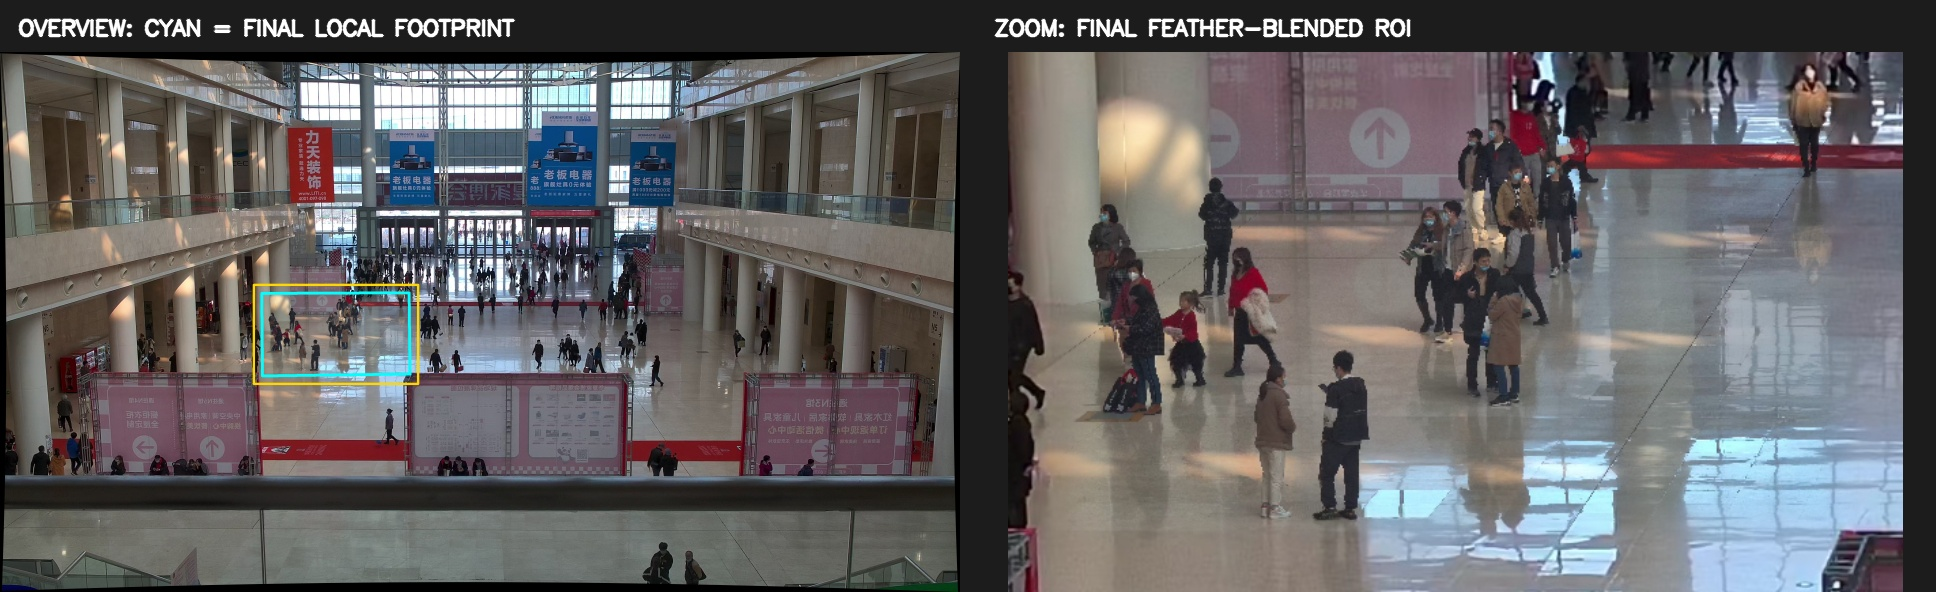
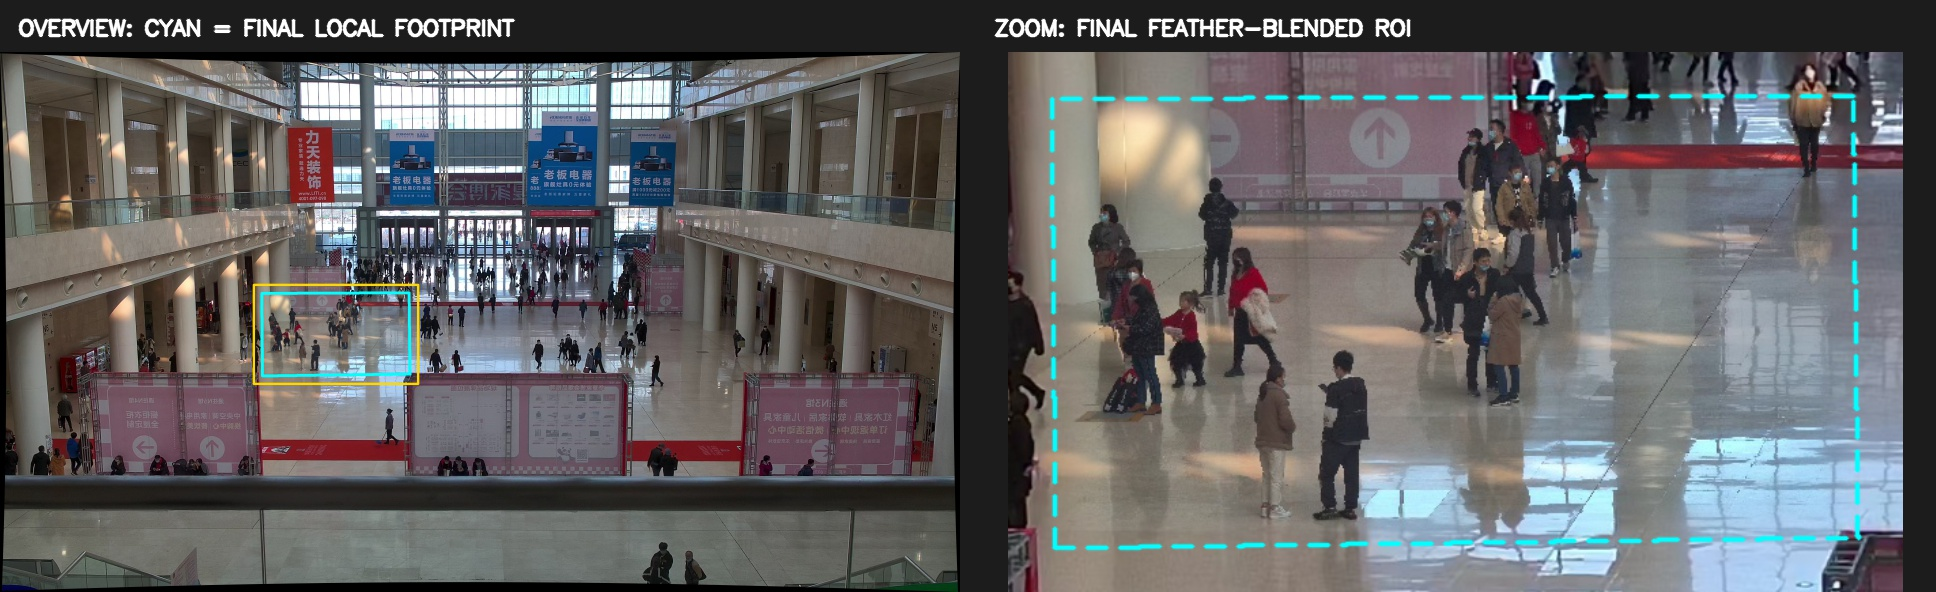
Use thin dashed outlines in zoom visualizations

diff --git a/src/image_stitch/visualization.py b/src/image_stitch/visualization.py
@@ -133,6 +133,43 @@ def _fit_panel(image: np.ndarray, width: int, height: int) -> np.ndarray:
     return panel
 
 
+def _draw_dashed_contours(
+    image: np.ndarray,
+    contours: list[np.ndarray] | tuple[np.ndarray, ...],
+    *,
+    color: tuple[int, int, int] = (255, 255, 0),
+    thickness: int = 2,
+    dash_length: float = 14.0,
+    gap_length: float = 10.0,
+) -> None:
+    """Draw closed anti-aliased contours as short dashed segments."""
+    period = dash_length + gap_length
+    for contour in contours:
+        points = np.asarray(contour, dtype=np.float32).reshape(-1, 2)
+        if len(points) < 2:
+            continue
+        for index, start in enumerate(points):
+            end = points[(index + 1) % len(points)]
+            vector = end - start
+            length = float(np.linalg.norm(vector))
+            if length <= 0:
+                continue
+            direction = vector / length
+            offset = 0.0
+            while offset < length:
+                dash_start = start + direction * offset
+                dash_end = start + direction * min(offset + dash_length, length)
+                cv.line(
+                    image,
+                    tuple(np.rint(dash_start).astype(int)),
+                    tuple(np.rint(dash_end).astype(int)),
+                    color,
+                    thickness,
+                    cv.LINE_AA,
+                )
+                offset += period
+
+
 def draw_initial_alignment(
     source: np.ndarray,
     destination: np.ndarray,
@@ -179,7 +216,7 @@ def draw_initial_alignment(
     zoom_contours, _ = cv.findContours(
         roi_mask, cv.RETR_EXTERNAL, cv.CHAIN_APPROX_SIMPLE
     )
-    cv.drawContours(zoom, zoom_contours, -1, (255, 255, 0), 4, cv.LINE_AA)
+    _draw_dashed_contours(zoom, zoom_contours)
 
     gap = 16
     header = 52
@@ -243,6 +280,11 @@ def draw_final_alignment(
     )
 
     zoom = panorama[y:y + box_height, x:x + box_width].copy()
+    zoom_mask = source_mask[y:y + box_height, x:x + box_width]
+    zoom_contours, _ = cv.findContours(
+        zoom_mask, cv.RETR_EXTERNAL, cv.CHAIN_APPROX_SIMPLE
+    )
+    _draw_dashed_contours(zoom, zoom_contours)
 
     gap = 16
     header = 52

diff --git a/tests/test_visualization.py b/tests/test_visualization.py
@@ -4,6 +4,7 @@ import numpy as np
 
 from image_stitch.types import FeatureMatches
 from image_stitch.visualization import (
+    _draw_dashed_contours,
     draw_final_alignment,
     draw_initial_alignment,
     draw_matches,
@@ -67,6 +68,14 @@ class VisualizationTests(unittest.TestCase):
             padding=10,
         )
         self.assertEqual(visualization.shape, (232, 656, 3))
+
+    def test_dashed_contour_contains_visible_gaps(self):
+        image = np.zeros((100, 100, 3), dtype=np.uint8)
+        contour = np.int32([[[10, 10]], [[90, 10]], [[90, 90]], [[10, 90]]])
+        _draw_dashed_contours(image, (contour,))
+        top_edge = np.any(image[10, 10:91] > 0, axis=1)
+        self.assertTrue(np.any(top_edge))
+        self.assertTrue(np.any(~top_edge))
 
 
 if __name__ == "__main__":

diff --git a/README.md b/README.md
@@ -58,9 +58,9 @@ H_final = H_delta @ H_init
 
 这些样例中 local 的视野包含在 global 的部分区域内，因此输出是 global 坐标系下的 `3840 × 2160` 融合图，而不是左右并排、横向扩展的传统全景图。
 
-`initial_alignment.jpg` 左侧青色轮廓表示 local 经 `H_init` 投影后的实际边界，黄色矩形表示带 32 px 留白的可视化 ROI；右侧将这个 ROI 放大，并按照 local 55%、global 45% 叠加。这样既保留全局位置关系，也能直接观察初值附近的重影和对齐误差。
+`initial_alignment.jpg` 左侧青色轮廓表示 local 经 `H_init` 投影后的实际边界，黄色矩形表示带 32 px 留白的可视化 ROI；右侧将这个 ROI 放大，并按照 local 55%、global 45% 叠加。右侧使用 2 px 青色虚线标记 local 的真实边界，以减少对对齐细节的遮挡。
 
-`final_alignment.jpg` 使用同样的布局，但基于 `H_final` 和实际羽化融合结果生成：左侧是带定位框的完整最终画布，右侧是黄色框对应的最终融合像素，并且不再叠加青色或黄色边框。原始无标注大图仍保存在 `panorama.jpg`，三个样例的尺寸均为 `3840 × 2160`。
+`final_alignment.jpg` 使用同样的布局，但基于 `H_final` 和实际羽化融合结果生成：左侧是带定位框的完整最终画布，右侧是黄色框对应的最终融合像素，并使用相同的 2 px 青色虚线标记 local 边界。原始无标注大图仍保存在 `panorama.jpg`，三个样例的尺寸均为 `3840 × 2160`。
 
 默认只在 local 投影边缘内侧 32 px 范围进行羽化：边界处由 global 平滑过渡，离开边界 32 px 后 local 权重达到 100%。可通过 `--feather-width` 调整过渡宽度；设为 `0` 表示不羽化、直接覆盖。
 
